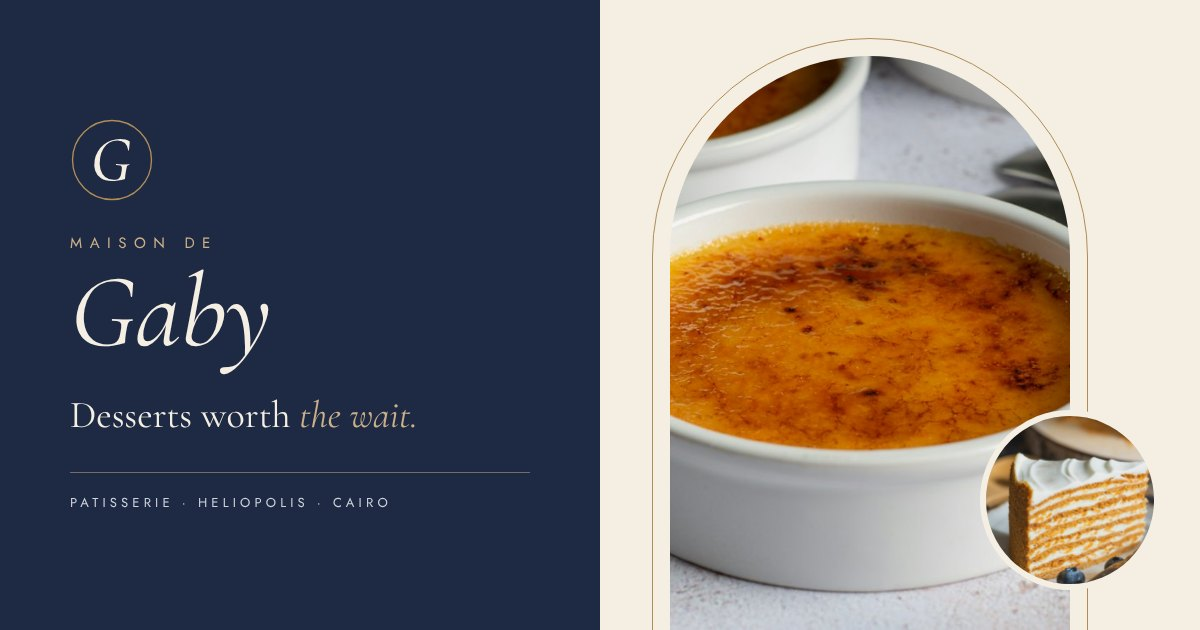
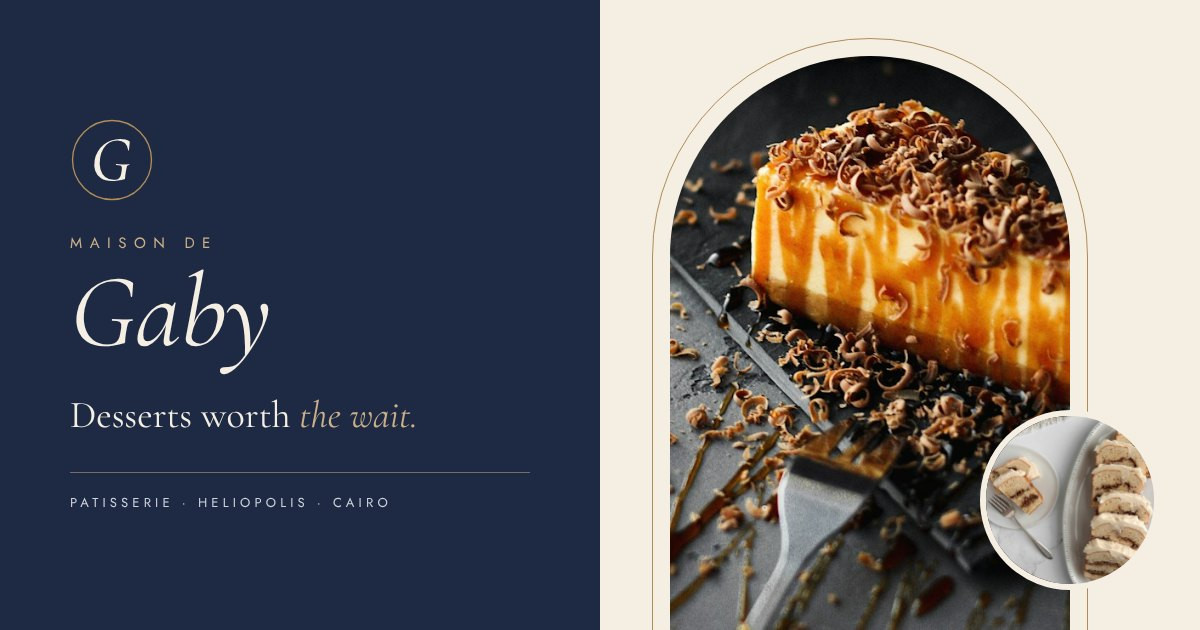
Replace the menu with five new desserts
Golden Carrot Crumb, Milk Cloud, Toffee Cuddle, Cinnamon Kisses and Chocolate
Crush, with photos and ingredient lists. Homepage photos, FAQ, description and
link preview updated to match. No stray brackets or dots for desserts without
a size.

Claude-Session: https://claude.ai/code/session_01ASs3hcJxtxpnGV5LasEHs5

Changed region(s): [[0.555, 0.0905, 0.9867, 1.0]]

diff --git a/public/index.html b/public/index.html
@@ -4,7 +4,7 @@
   <meta charset="utf-8">
   <meta name="viewport" content="width=device-width, initial-scale=1, viewport-fit=cover">
   <title>Maison de Gaby · Patisserie, Heliopolis</title>
-  <meta name="description" content="Maison de Gaby: French-style desserts baked by hand in small batches in Heliopolis, Cairo. Crème brûlée, honey cake, molten cake and more. Order your box on WhatsApp.">
+  <meta name="description" content="Maison de Gaby: French-style desserts baked by hand in small batches in Heliopolis, Cairo. Sticky toffee, tres leches, carrot, cinnamon and chocolate cakes. Order your box on WhatsApp.">
   <link rel="canonical" href="https://maison-mariam.vercel.app/">
   <meta property="og:type" content="website">
   <meta property="og:site_name" content="Maison de Gaby">
@@ -20,7 +20,7 @@
   <link rel="icon" href="assets/favicon-g.svg" type="image/svg+xml">
   <link rel="apple-touch-icon" href="assets/apple-touch-icon.png">
   <link rel="manifest" href="site.webmanifest">
-  <link rel="preload" as="image" href="assets/photos/creme-brulee.jpg" fetchpriority="high">
+  <link rel="preload" as="image" href="assets/photos/milk-cloud.jpg" fetchpriority="high">
   <link rel="stylesheet" href="css/style.css?v=4">
   <link rel="stylesheet" href="css/cards.css?v=1">
   <link rel="stylesheet" href="assets/vendor/leaflet/leaflet.css">
@@ -97,14 +97,14 @@
       <figure class="hero-art">
         <div class="hero-edition"><span>The house signatures</span><span>01 / 02</span></div>
         <div class="arch">
-          <img src="assets/photos/creme-brulee.jpg" alt="Crème brûlée with a golden caramelised sugar crust" width="900" height="675" fetchpriority="high">
+          <img src="assets/photos/milk-cloud.jpg" alt="A slice of soft milk-soaked sponge with caramel" width="900" height="675" fetchpriority="high">
         </div>
         <div class="hero-inset">
-          <img src="assets/photos/honey-cake.jpg" alt="Delicate layers of honey cake and cream" width="900" height="675">
-          <span>Honey, layer upon layer.</span>
+          <img src="assets/photos/cinnamon-kisses.jpg" alt="Slices of cinnamon swirl cake with cream cheese frosting" width="900" height="675">
+          <span>Cinnamon, swirled by hand.</span>
         </div>
         <span class="hero-side" aria-hidden="true">The art of taking your time</span>
-        <figcaption><span>01 — Crème brûlée</span><em>A delicate finish. A lasting impression.</em></figcaption>
+        <figcaption><span>02 — Milk Cloud</span><em>Three milks. One soft cloud.</em></figcaption>
       </figure>
       <div class="hero-bottom" aria-hidden="true"><span>Small batches. Beautiful moments.</span><span>Heliopolis, Cairo <span class="small-cross">+</span></span></div>
     </section>
@@ -205,11 +205,11 @@
         </details>
         <details>
           <summary>I have an allergy. What's in each dessert?</summary>
-          <p>Every dessert lists its ingredients and allergens on the menu: tap <em>Ingredients</em>. The crème caramel and crème brûlée are made without gluten. Our kitchen also uses nuts, gluten, eggs and dairy, so we can't promise a dessert is completely free of traces. Tell us about any allergy in your order note.</p>
+          <p>Every dessert lists its ingredients and allergens on the menu: tap <em>Ingredients</em>. The Golden Carrot Crumb contains pecans. Our kitchen also uses nuts, gluten, eggs and dairy, so we can't promise a dessert is completely free of traces. Tell us about any allergy in your order note.</p>
         </details>
         <details>
           <summary>How should I keep my desserts?</summary>
-          <p>In the fridge, covered. Cakes keep for 3 days and the crème caramel for 3 days. Eat the crème brûlée within an hour or two of delivery, while the top still cracks. Warm a molten cake for 15 seconds in the microwave before serving.</p>
+          <p>In the fridge, covered, and best within 3 days. The Milk Cloud is soaked in milk, so keep it chilled. Warm a Toffee Cuddle for 20–30 seconds in the microwave and pour its warm sauce over. Take the Chocolate Crush out 30 minutes before serving so the frosting softens.</p>
         </details>
         <details>
           <summary>Can I write a message on a cake, or change a dessert?</summary>
@@ -362,6 +362,6 @@
   <div class="toast" id="toast" role="status" aria-live="polite"></div>
 
   <script src="js/menu.js?v=4"></script>
-  <script src="js/main.js?v=7"></script>
+  <script src="js/main.js?v=8"></script>
 </body>
 </html>

diff --git a/public/js/main.js b/public/js/main.js
@@ -177,7 +177,7 @@
     $("boxList").innerHTML = Object.keys(box).map(function (id) {
       var it = byId(id);
       return '<li>' + (it.photo ? '<img src="' + esc(it.photo) + '" alt="" width="64" height="48" loading="lazy">' : '<span class="thumb"></span>') +
-        '<div class="box-item"><strong>' + esc(it.name) + '</strong><span class="muted small">' + esc(it.portion) + " · " + money(it.price) + "</span></div>" +
+        '<div class="box-item"><strong>' + esc(it.name) + '</strong><span class="muted small">' + (it.portion ? esc(it.portion) + " · " : "") + money(it.price) + "</span></div>" +
         '<div class="stepper small" data-id="' + esc(id) + '"><button data-act="dec" aria-label="Remove one ' + esc(it.name) + '">−</button><span>' + box[id] +
         '</span><button data-act="inc" aria-label="Add one more ' + esc(it.name) + '">+</button></div></li>';
     }).join("");
@@ -302,7 +302,7 @@
     var lines = ["Hello Maison de Gaby! I'd like to order:", "Order " + orderRef(), ""];
     Object.keys(box).forEach(function (id) {
       var it = byId(id);
-      lines.push("• " + box[id] + " × " + it.name + " (" + it.portion + ") = " + money(it.price * box[id]));
+      lines.push("• " + box[id] + " × " + it.name + (it.portion ? " (" + it.portion + ")" : "") + " = " + money(it.price * box[id]));
     });
     lines.push("", "Total: " + money(t.sum) + " + delivery", "",
       "Name: " + name,

diff --git a/README.md b/README.md
@@ -140,11 +140,20 @@ The starting photos in `public/assets/photos/` are stand-ins from Unsplash (free
 [Unsplash License](https://unsplash.com/license)). Replace them with photos of Mariam's own desserts from
 /admin. Customers should see what they will get.
 
+Current menu:
+
+- carrot-cake.jpg (Golden Carrot Crumb): https://unsplash.com/photos/a-piece-of-carrot-cake-on-a-plate-with-a-fork-EvfXG4aK9d8 (Orkun Orcan)
+- milk-cloud.jpg (Milk Cloud): https://unsplash.com/photos/slice-of-caramel-cake-on-black-plate-beside-fork-GAauSStia3s (Aliona Gumeniuk)
+- toffee-cuddle.jpg (Toffee Cuddle): https://unsplash.com/photos/caramel-sauce-being-poured-on-dessert-with-ice-cream-ifKtstypv3E (Geoffrey Moffett)
+- cinnamon-kisses.jpg (Cinnamon Kisses): https://unsplash.com/photos/sliced-cinnamon-roll-cake-with-frosting-on-platter-zApCl9Te0Zk (sheri silver)
+- chocolate-crush.jpg (Chocolate Crush): https://unsplash.com/photos/a-chocolate-cake-with-a-slice-taken-out-of-it-F8RKds2YdqA (BraggsDiner)
+- The homepage photos and `assets/og.jpg` (link preview) use milk-cloud.jpg and cinnamon-kisses.jpg.
+
+Previous menu (files kept, no longer shown on the site):
+
 - molten-cake.jpg: https://unsplash.com/photos/chocolate-cake-on-white-ceramic-plate-Pzjez86SsvQ
 - brownies.jpg: https://unsplash.com/photos/a-pile-of-brownies-sitting-on-top-of-a-white-plate-LjtviHokbr4 (Anna Przepiorka)
-- carrot-cake.jpg: https://unsplash.com/photos/a-piece-of-carrot-cake-on-a-plate-with-a-fork-EvfXG4aK9d8 (Orkun Orcan)
 - honey-cake.jpg: https://unsplash.com/photos/sliced-of-cake-on-white-ceramic-plate-diVU8-tGO0U (Diliara Garifullina)
 - souffle-cheesecake.jpg: https://unsplash.com/photos/a-cake-with-berries-and-powdered-sugar-on-a-plate-AHKlSCTEf3c
-- `assets/og.jpg` (link preview) is made from creme-brulee.jpg and honey-cake.jpg.
 - creme-caramel.jpg: https://unsplash.com/photos/sweet-flan-dessert-with-caramel-sauce-and-a-spoon-gynfA2P1dis
 - creme-brulee.jpg: https://unsplash.com/photos/creme-brulee-dessert-with-strawberry-6We0b1jY6ms

diff --git a/AGENTS.md b/AGENTS.md
@@ -57,6 +57,11 @@ If you need to change the other agent's area, keep the change small and note it 
 
 Newest first. One or two lines each: date, agent, what changed, what's left.
 
+- 2026-10-29 · Claude: new menu of five (Golden Carrot Crumb 300, Milk Cloud 300, Toffee Cuddle 400, Cinnamon
+  Kisses 400, Chocolate Crush 350 EGP) replaces the old seven, live and in `data/menu.json`; sizes left blank for
+  Mariam to fill in /admin. Private recipes added (no costing, at the owner's request). Homepage photos, FAQ,
+  meta description and `og.jpg` updated to match. Small fix in `main.js`: no stray "()" or "·" when a dessert
+  has no size.
 - 2026-10-29 · Claude: added this guide. Reviewed Codex's commits up to `50da09d` (heritage redesign, gift
   cards, delivery map, admin publishing fix, couriers): `npm test` passes (17/17), live site checked on desktop
   and phone with no console errors. Fixed a README line that still listed the removed occasions section.
